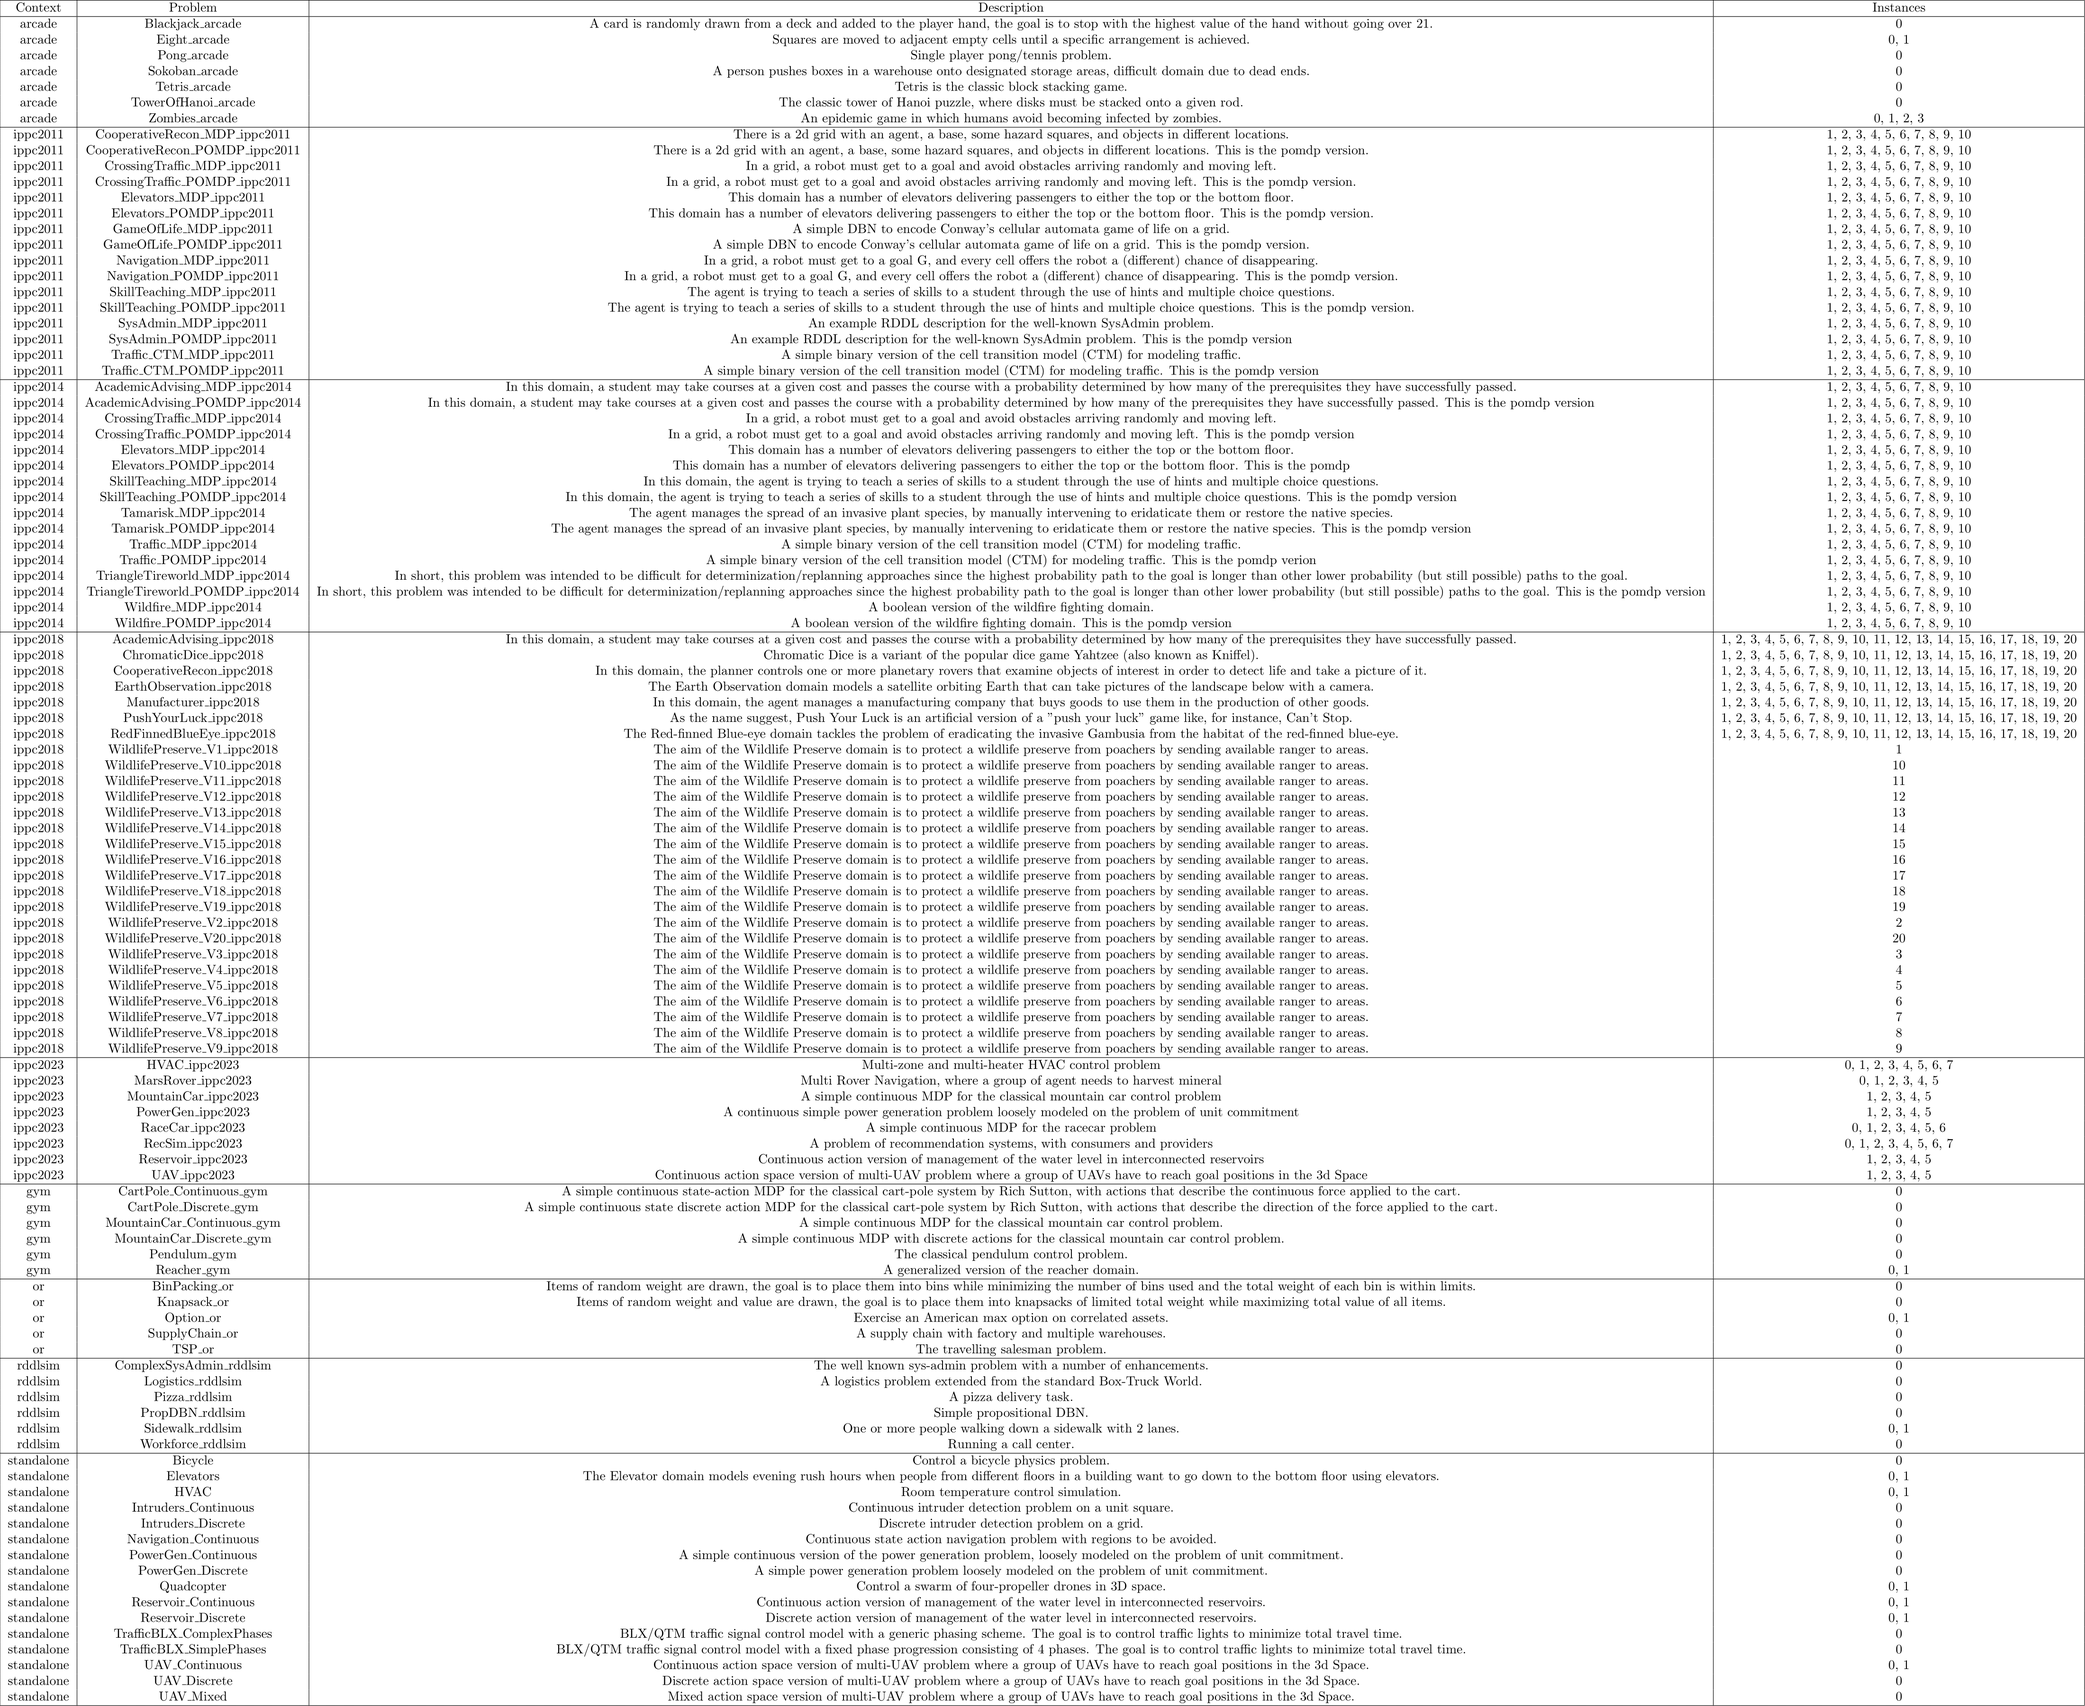
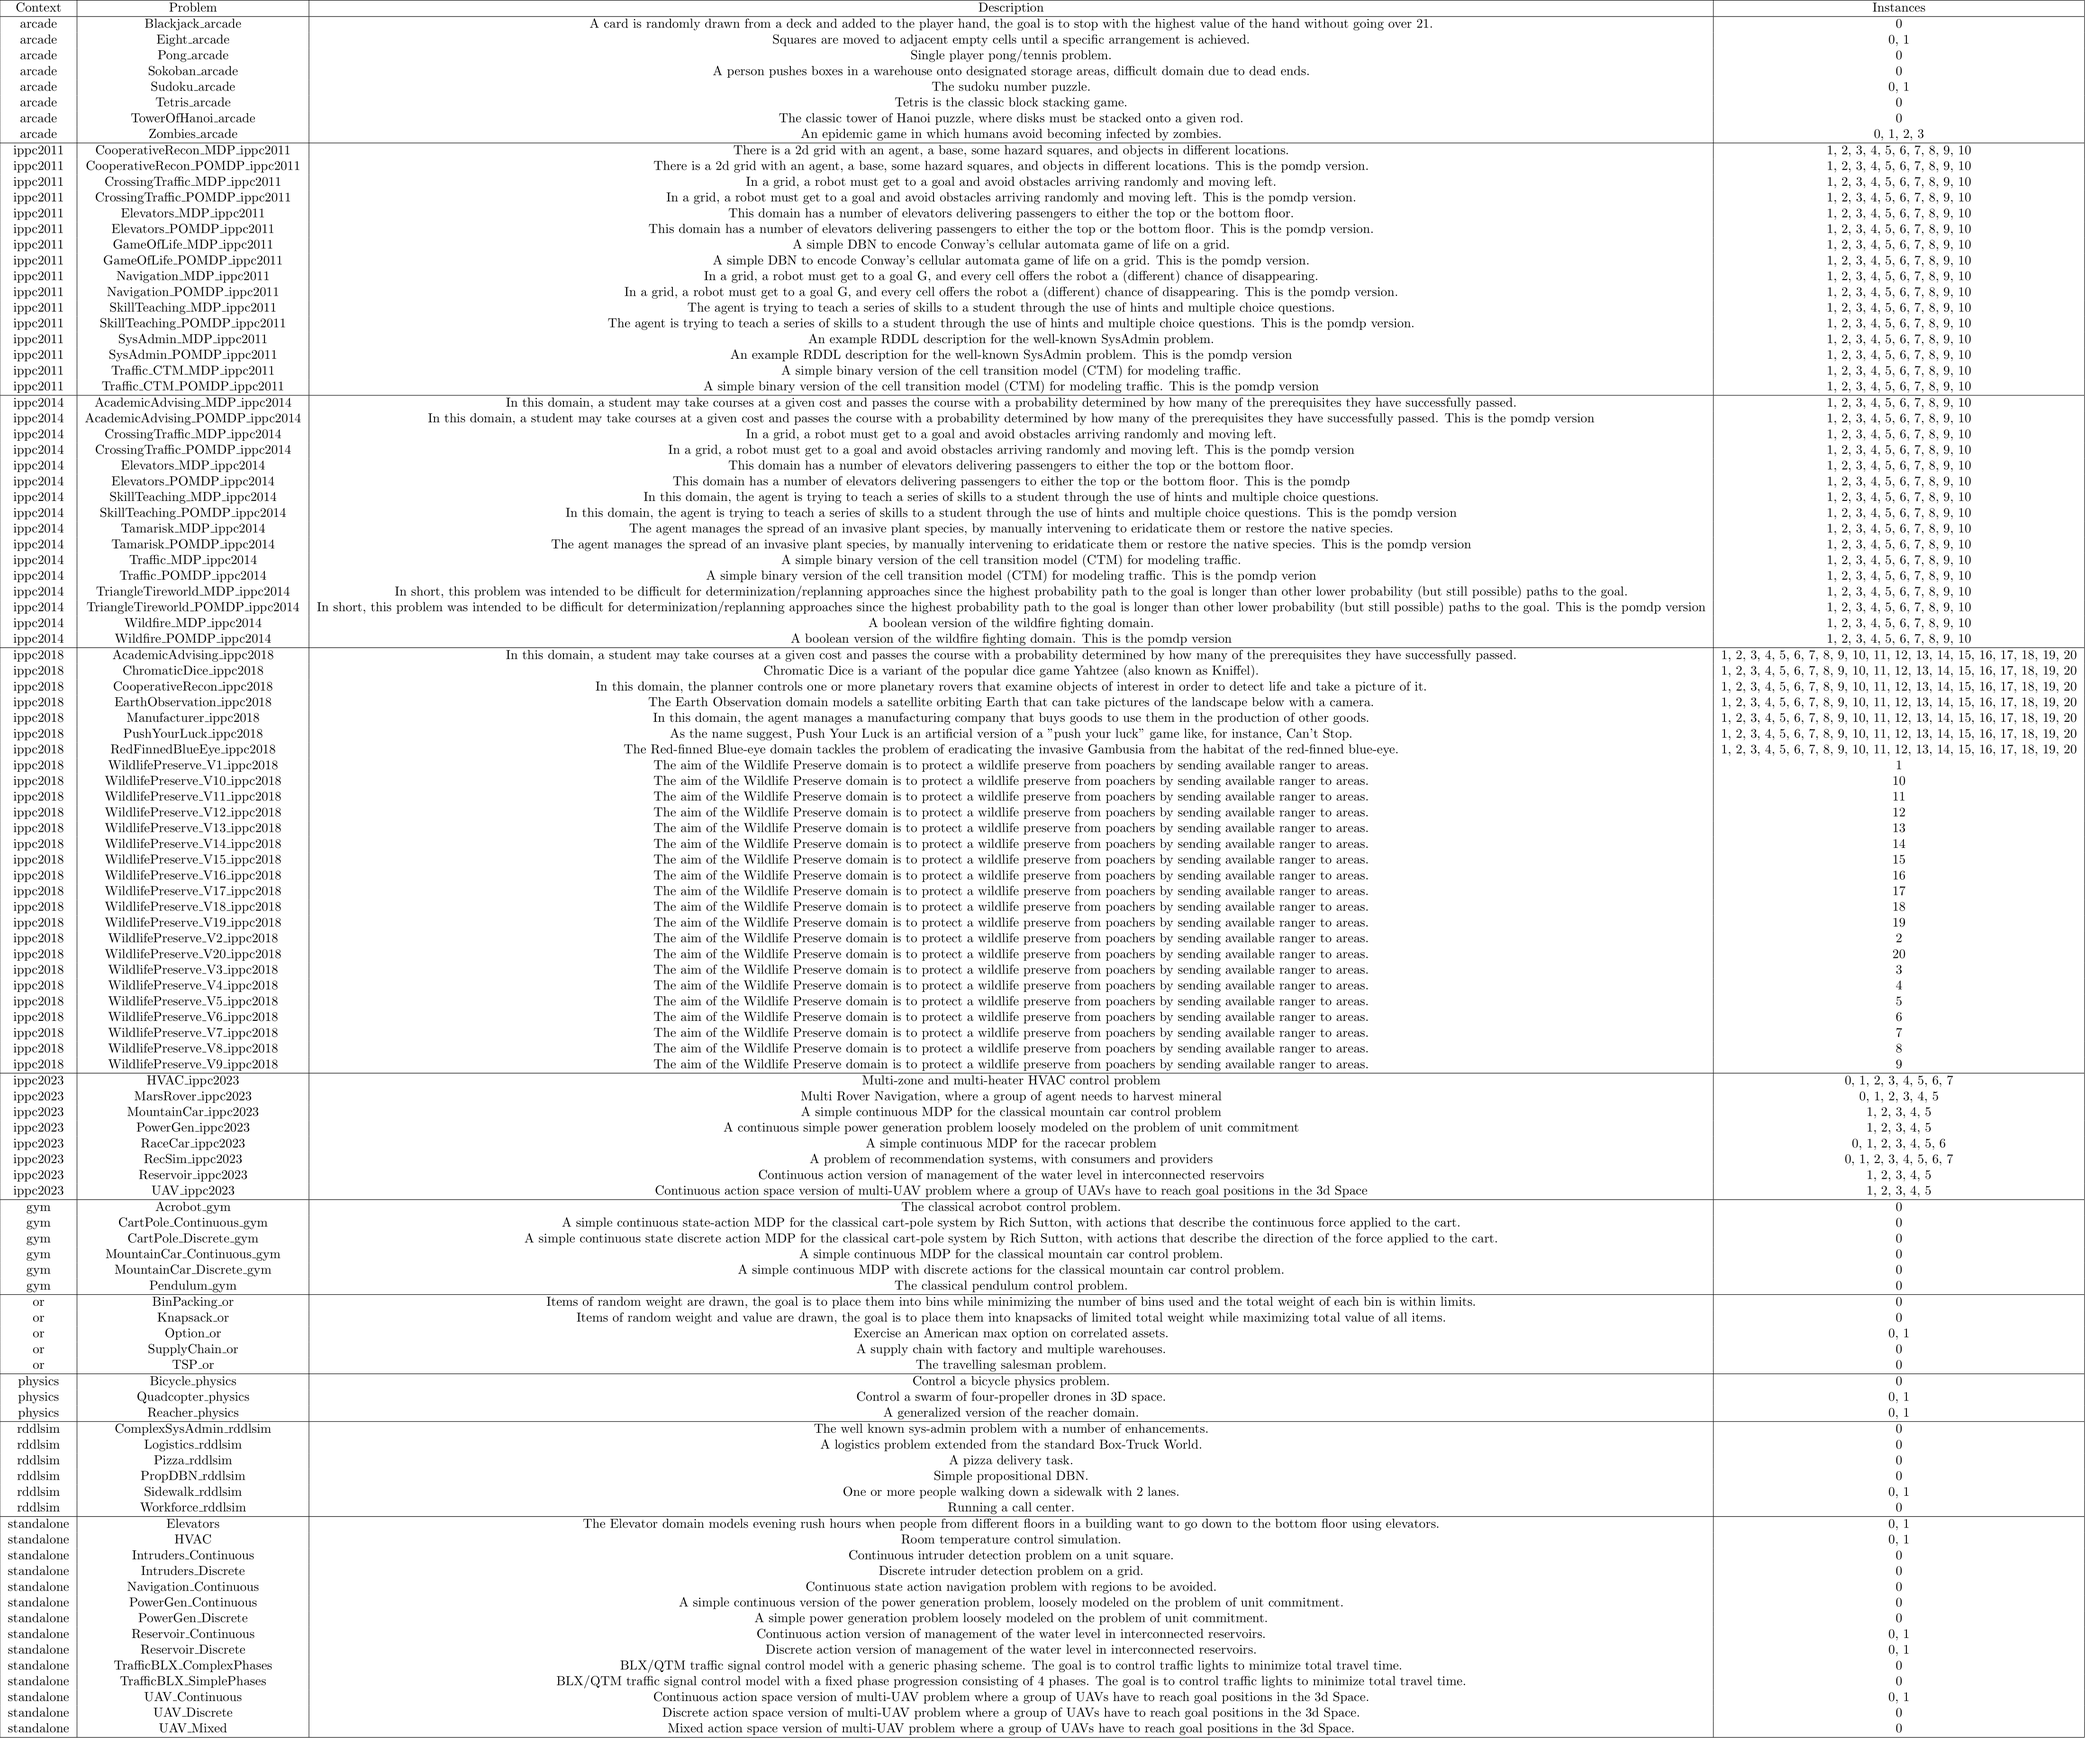
Create physics context and reorganize some domains

Changed region(s): [[0.0, 0.0, 1.0, 1.0], [0.8407, 0.0622, 0.9964, 0.4357], [0.903, 0.6224, 0.9341, 0.7158]]

diff --git a/rddlrepository/archive/physics/Quadcopter/__init__.py b/rddlrepository/archive/physics/Quadcopter/__init__.py
@@ -1,7 +1,7 @@
 info = {
     'name': 'Quadcopter',
     'description': 'Control a swarm of four-propeller drones in 3D space.',
-    'context': '',
+    'context': 'physics',
     'tags': '',
     'viz': 'QuadcopterViz.QuadcopterVisualizer'
 }

diff --git a/rddlrepository/archive/physics/Reacher/__init__.py b/rddlrepository/archive/physics/Reacher/__init__.py
@@ -1,7 +1,7 @@
 info = {
     'name': 'Reacher',
     'description': 'A generalized version of the reacher domain.',
-    'context': 'gym',
+    'context': 'physics',
     'tags': '',
     'viz': 'ReacherViz.ReacherVisualizer'
 }

diff --git a/rddlrepository/archive/physics/Bicycle/__init__.py b/rddlrepository/archive/physics/Bicycle/__init__.py
@@ -1,7 +1,7 @@
 info = {
     'name': 'Bicycle',
     'description': 'Control a bicycle physics problem.',
-    'context': '',
+    'context': 'physics',
     'tags': '',
     'viz': 'None'
 }
